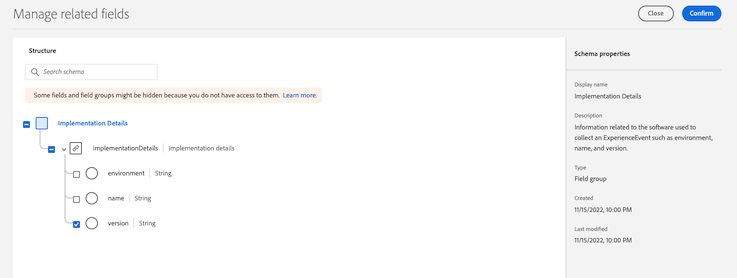
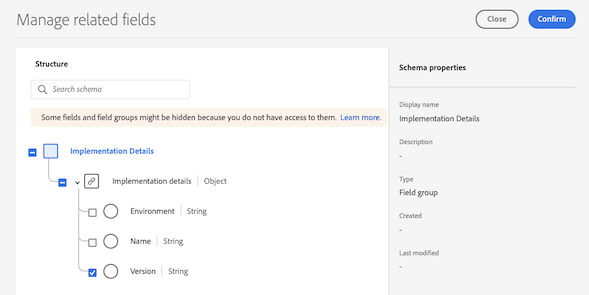
Updated steps for updating schema

diff --git a/help/implementation/media-sdk/setup/web-implementation-edge.md b/help/implementation/media-sdk/setup/web-implementation-edge.md
@@ -32,29 +32,94 @@ To create and set up a schema:
 
 1. In Adobe Experience Platform, begin creating the schema as described in [Create and edit schemas in the UI](https://experienceleague.adobe.com/docs/experience-platform/xdm/ui/resources/schemas.html?lang=en).
 
-1. Add the following new field groups to the schema:
+   When creating the schema, choose [!UICONTROL **XDM ExperienceEvent**] from the [!UICONTROL **Create schema**] drop-down menu.
+
+1. In the [!UICONTROL **Composition**] area, in the [!UICONTROL **Field groups**] section, select [!UICONTROL **Add**], then search for and add the following new field groups to the schema:
    * `Adobe Analytics ExperienceEvent Template`
    * `Implementation Details`
    * `MediaAnalytics Interaction Details`
 
-1. Hide the following fields from the schema:
-   * In the `endUserIds` field group, hide all fields except for `endUserIDs._experience.aacustomid.id` and `endUserIDs._experience.aaid.id`.
-    For example:
-    ![fields to hide](assets/schema-hide_fields.png)
-   * In the `implementationDetails` field group, hide all fields except for `version`.
+   After you add the field groups, they should display in the [!UICONTROL **Field groups**] section, as follows:
+
+   ![Added field groups](assets/schema-field-groups-added.png)
+
+1. In the [!UICONTROL **Structure**] area, select a the `endUserIds` > `_experience` field group, then select [!UICONTROL **Manage related fields**].
+
+   ![Manage related fields button](assets/manage-related-fields.png)
+
+1. Update the schema as follows:
+
+   * In the `endUserIds` > `_experience` > `Adobe Advertising Cloud end user IDs` field group, hide all fields except the `Identifier` field.
+
+   * In the `endUserIds` > `_experience` > `Adobe Analytics Cloud Custom end user IDs` field group, hide all fields except the `Identifier` field.
+
+       For example:
+
+       ![fields to hide](assets/schema-hide-fields.png)
+
+1. Select [!UICONTROL **Confirm**] to save your changes.
+
+1. In the [!UICONTROL **Structure**] area, select the `Implementation Details` field group, select [!UICONTROL **Manage related fields**], then update the schema as follows:
+
+   * In the `Implementation Details` > `Implementation details` field group, hide all fields except for `version`.
+     
      For example:
+
      ![fields to hide](assets/schema-hide-fields2.png)
-   * In the `mediaCollection` field group, hide the `states` field.
-   * In the `mediaCollection.advertisingDetails` field group, hide the frollowing reporting fields: `isCompleted`, `isStarted`, and `timePlayed`.
-   * In the `mediaCollection.advertisingPodDetails` field group, hide the following reporting field: `ID`
-   * In the `mediaCollection.chapterDetails` field group, hide the following reporting fields: `ID`, `isCompleted`, `isStarted`, and `timePlayed`.
-   * In the `mediaCollection.qoeDataDetails`field group, hide the following reporting fields: `bitrateAverage`, `bitrateAverageBucket`, `bitrateChangeCount`, `bufferCount`, `bufferTime`, `errorCount`, `externalErrors`, `hasBitrateChangeImpactedStreams`, `hasBufferImpactedStreams`, `hasDroppedFrameImpactedStreams`, `hasErrorImpactedStreams`, `hasStallImpactedStreams`, `isDroppedBeforeStart`, `mediaSdkErrors`, `playerSdkErrors`, `stallCount`, and `stallTime`.
-   * In the `mediaCollection.sessionDetails` field group, hide the following reporting fields: `ID`, `adCount`, `averageMinuteAudience`, `chapterCount`, `estimatedStreams`, `hasPauseImpactedStreams`, `hasProgress10`, `hasProgress25`, `hasProgress50`, `hasProgress75`, `hasProgress95`, `hasSegmentView`, `isCompleted`, `isDownloaded`, `isFederated`, `isPlayed`, `isViewed`, `pauseCount`, `pauseTime`, `secondsSinceLastCall`, `segment`, `timePlayed`, `totalTimePlayed`, `uniqueTimePlayed`, `pev3`, and `pccr`.
-   * In the `mediaCollection.statesEnd` and `mediaCollection.statesStart` field groups, hide the following reporting fields: `count`, `isSet`, and `time`.
-   For example:
-   ![fields to hide](assets/schema-hide-fields3.png)
-   * `mediaDownloadedEvents` is an array with mediaCollection datatypes, which has the same format as the mediaCollection described above, just also uncheck the sessionID field. <!--what does this mean?-->
-   * In the `mediaReporting` field group, hide the following collection fields: `errorDetails`, `statesEnd`, `statesStart`, `playhead`, and `sessionID`.
+
+1. Select [!UICONTROL **Confirm**] to save your changes.
+
+1. In the [!UICONTROL **Structure**] area, select the `Media Collection Details` field group, select [!UICONTROL **Manage related fields**], then update the schema as follows:
+
+   * In the `Media Collection Details` field group, hide the `List Of States` field group.
+
+     For example:
+
+     ![hide media collection states](assets/schema-hide-media-collection-states.png)
+
+   * In the `Media Collection Details` > `Advertising Details` field group, hide the frollowing reporting fields: `Ad Completed`, `Ad Started`, and `Ad Time Played`.
+
+   * In the `Media Collection Details` > `Advertising Pod Details` field group, hide the following reporting field: `Ad Break ID`
+
+   * In the `Media Collection Details` > `Chapter Details` field group, hide the following reporting fields: `Chapter ID`, `Chapter Completed`, `Chapter Started`, and `Chapter Time Played`.
+
+   * In the `Media Collection Details` > `Qoe Data Details` field group, hide the following reporting fields: `Average Bitrate`, `Average Bitrate Bucket`, `Bitrate Changes`, `Buffer Events`, `Total Buffer Duration`, `Errors`, `External Error IDs`, `Bitrate Change Impacted Streams`, `Buffer Impacted Streams`, `Dropped Frame Impacted Streams`, `Error Impacted Streams`, `Stalling Impacted Streams`, `Drops Before Starts`, `Media SDK Error IDs`, `Player SDK Error IDs`, `Stalling Events`, and `Total Stalling Duration`.
+
+   * In the `Media Collection Details` > `Session Details` field group, hide the following reporting fields: `Media Session ID`, `Ad Count`, `Average Minute Audience`, `Chapter Count`, `Estimated Streams`, `Pause Impacted Streams`, `10% Progress Marker`, `25% Progress Marker`, `50% Progress Marker`, `75% Progress Marker`, `95% Progress Marker`, `Media Segment Views`, `Content Completes`, `Media Downloaded Flag`, `Federated Data`, `Content Starts`, `Media Starts`, `Pause Events`, `Total Pause Duration`, `Media Session Server Timeout`, `Video Segment`, `Content Time Spent`, `Media Time Spent`, `Unique Time Played`, `Pev3`, and `Pccr`.
+
+   * In the `Media Collection Details` > `List Of States End` and `Media Collection Details` > `List Of States Start` field groups, hide the following reporting fields: `Player State Count`, `Player State Set`, and `Player State Time`.
+      
+      For example:
+      
+      ![fields to hide](assets/schema-hide-listofstates.png)
+
+1. Select [!UICONTROL **Confirm**] to save your changes.
+
+1. In the [!UICONTROL **Structure**] area, select the `List Of Media Collection Downloaded Content Events` field group, select [!UICONTROL **Manage related fields**], then update the schema as follows:
+
+   * In the `List Of Media Collection Downloaded Content Events` > `Media Details` field group, hide the `List Of States` field group.
+
+   * In the `List Of Media Collection Downloaded Content Events` > `Media Details` > `Advertising Details` field group, hide the frollowing reporting fields: `Ad Completed`, `Ad Started`, and `Ad Time Played`.
+
+   * In the `List Of Media Collection Downloaded Content Events` > `Media Details` > `Advertising Pod Details` field group, hide the following reporting field: `Ad Break ID`
+
+   * In the `List Of Media Collection Downloaded Content Events` > `Media Details` > `Chapter Details` field group, hide the following reporting fields: `Chapter ID`, `Chapter Completed`, `Chapter Started`, and `Chapter Time Played`.
+
+   * In the `List Of Media Collection Downloaded Content Events` > `Media Details` > `Qoe Data Details` field group, hide the following reporting fields: `Average Bitrate`, `Average Bitrate Bucket`, `Bitrate Changes`, `Buffer Events`, `Total Buffer Duration`, `Errors`, `External Error IDs`, `Bitrate Change Impacted Streams`, `Buffer Impacted Streams`, `Dropped Frame Impacted Streams`, `Error Impacted Streams`, `Stalling Impacted Streams`, `Drops Before Starts`, `Media SDK Error IDs`, `Player SDK Error IDs`, `Stalling Events`, and `Total Stalling Duration`.
+
+   * In the `List Of Media Collection Downloaded Content Events` > `Media Details` > `Session Details` field group, hide the following reporting fields: `Media Session ID`, `Ad Count`, `Average Minute Audience`, `Chapter Count`, `Estimated Streams`, `Pause Impacted Streams`, `10% Progress Marker`, `25% Progress Marker`, `50% Progress Marker`, `75% Progress Marker`, `95% Progress Marker`, `Media Segment Views`, `Content Completes`, `Media Downloaded Flag`, `Federated Data`, `Content Starts`, `Media Starts`, `Pause Events`, `Total Pause Duration`, `Media Session Server Timeout`, `Video Segment`, `Content Time Spent`, `Media Time Spent`, `Unique Time Played`, `Pev3`, and `Pccr`.
+
+   * In the `List Of Media Collection Downloaded Content Events` > `Media Details` > `List Of States End` and `Media Collection Details` > `List Of States Start` field groups, hide the following reporting fields: `Player State Count`, `Player State Set`, and `Player State Time`.
+
+   <!-- "just also uncheck the sessionID field." - I don't see this field-->
+
+1. Select [!UICONTROL **Confirm**] > [!UICONTROL **Save**] to save your changes.
+
+1. In the [!UICONTROL **Structure**] area, select the `Media Reporting Details` field group, select [!UICONTROL **Manage related fields**], then update the schema as follows:
+
+   * In the `Media Reporting Details` field group, hide the following collection field groups: `Error Details`, `List Of States End`, `List of States Start`, `Playhead`, and `Session ID`.
+
+1. Select [!UICONTROL **Confirm**] to save your changes.
 
 1. Continue with [Create a dataset in Adobe Experience Platform](#create-a-dataset-in-adobe-experience-platform).
 
@@ -191,7 +256,7 @@ To create and set up a schema:
 
    >[!NOTE]
    >
-   >   If the users you want to share with are not available to share with, make sure the users have user and admin access to Customer Journey Analytics in the Adobe Admin Console.
+   >   If the users you want to share with are not available, make sure the users have user and admin access to Customer Journey Analytics in the Adobe Admin Console.
 
 1. Continue with [Send data to Experience Platform Edge](#send-data-to-experience-platform-edge)
 
